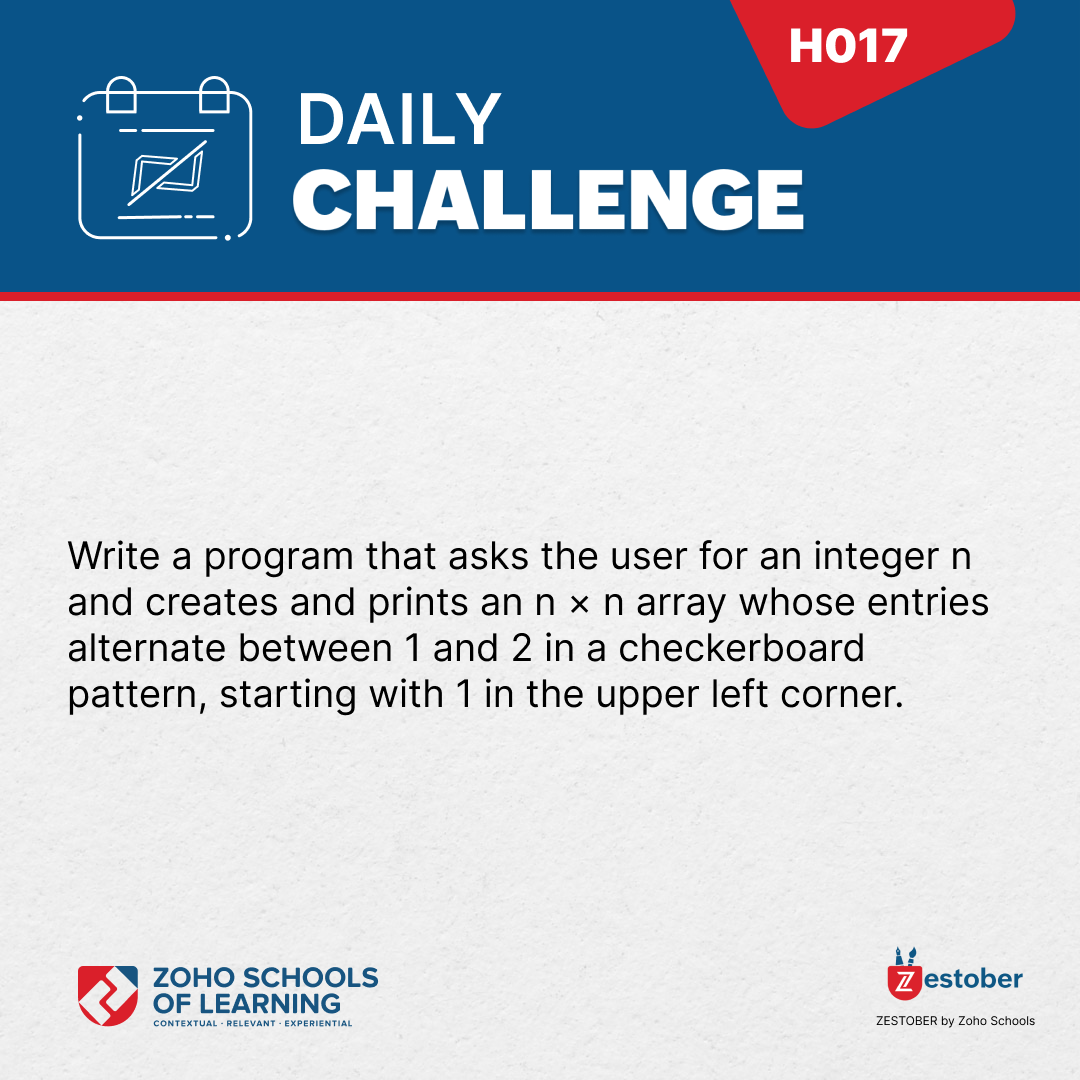
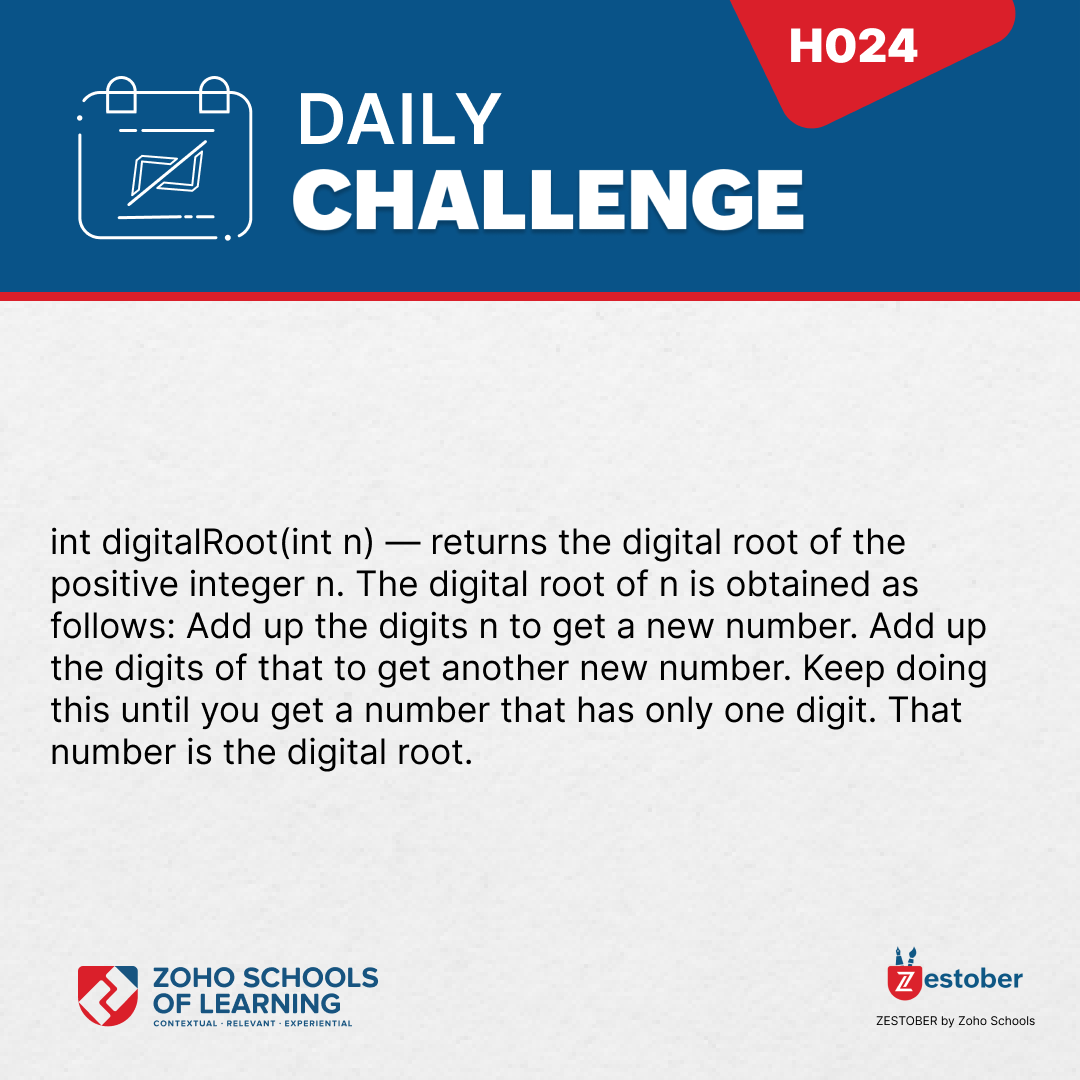
Using Recursion to Find a Digital Root......

Changed region(s): [[0.0306, 0.4889, 0.9167, 0.7333], [0.7944, 0.0306, 0.8556, 0.0611]]

diff --git a/H024.java b/H024.java
@@ -1,0 +1,35 @@
+import java.util.Scanner;
+
+public class H024 {
+    public static void main(String[] args) {
+        int n;
+        Scanner scan = new Scanner(System.in);
+        System.out.println("Enter the Number :");
+        n = scan.nextInt();
+        System.out.println("The Digital Root of " + n + " is " + digitalRoot(n, 0));
+        scan.close();
+    }
+
+    private static int digitalRoot(int n, int root) {
+        // check if the root is greater 9 because single is digitalroot
+        // and n==0 is compusolory
+        if (n == 0 && root > 9) {
+            n = root;
+            root = 0;
+
+        }
+
+        // base Condition...
+        if (n == 0) {
+            return root;
+
+        }
+        // to calculate the digitalRoot
+        if (n > 0) {
+
+            root += n % 10;
+            n /= 10;
+        }
+        return digitalRoot(n, root);
+    }
+}
